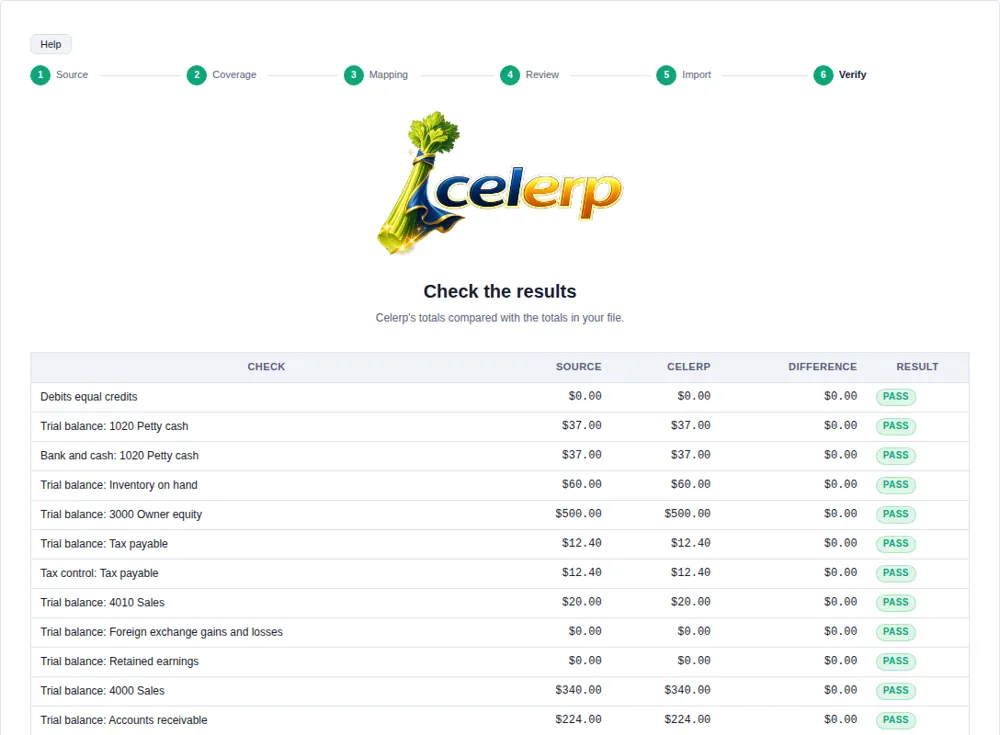
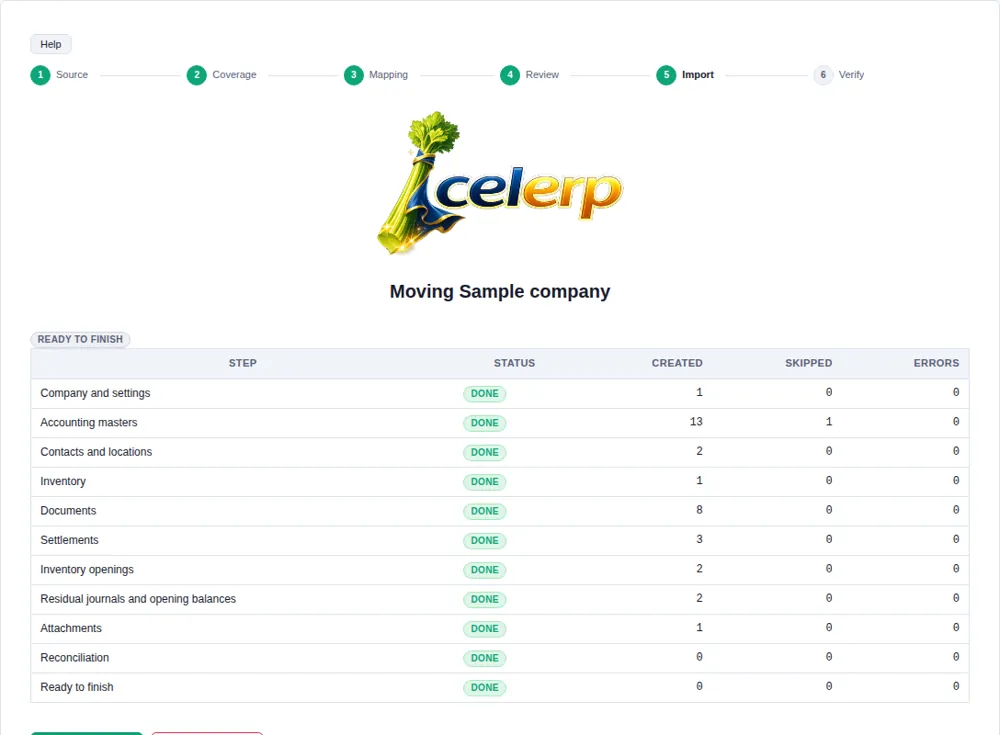
The migration guide shows the import progress before the totals check, in the order the wizard runs them, under a test of the step order, and the module lock matches the assistant module again

diff --git a/tests/test_help_content.py b/tests/test_help_content.py
@@ -79,3 +79,13 @@ def test_help_ledger(pages):
 def test_help_translations(pages):
     """Every guide catalog is valid and the bundle built from it passes the bundle rules."""
     assert checks.check_translations(pages) == []
+
+
+def test_the_migration_guide_follows_the_wizard_in_the_order_it_runs(pages):
+    """Each step of the migration guide is reached by going on from the steps before it: no step
+    pictures a screen the wizard shows before an earlier step's screen."""
+    steps = next(p.data["steps"] for p in pages if p.data.get("id") == "core.imports")
+    actions = [s["capture"]["actions"] for s in steps]
+    earlier = [(n, m) for n, a in enumerate(actions, 1) for m, b in enumerate(actions[n:], n + 1)
+               if len(b) < len(a) and a[:len(b)] == b]
+    assert earlier == [], f"(step, later step shown before it in the wizard): {earlier}"
